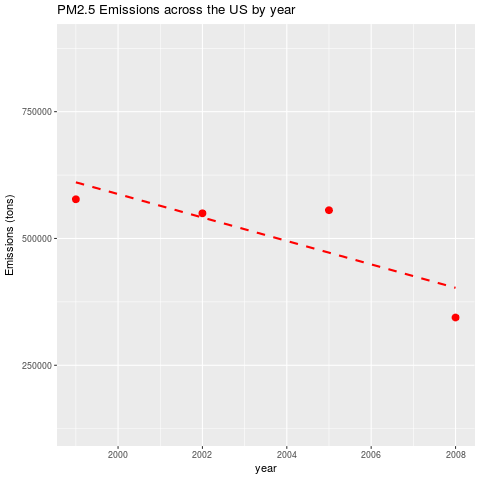
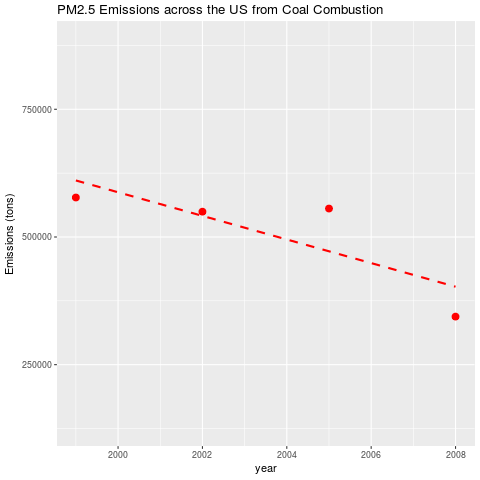
readme stuff, tweaked plot4

diff --git a/README.md b/README.md
@@ -4,15 +4,17 @@ week four project for exploratory data analysis course on coursera.org
 
 ## Question 1 : Have total emissions from PM2.5 decreased in the United States from 1999 to 2008? 
 
-some discussion
+PM2.5 emissions *have* decreased. Total Emissions in 2008 are approximately half those of 1999, and the data shows a clear downward trend.
 
 ![plot for question 1](./plot1.png)
+
+
 [plot1.R](./plot1.R)
 
 
 ## Question 2 : Have total emissions from PM2.5 decreased in the Baltimore City, Maryland (fips == "24510") from 1999 to 2008? 
-some discussion
 
+PM2.5 levels in Baltimore have decreased since 1999. Levels have generally decreased since 1999 (aside from a spike on 2005), and the 2008 level is significantly lower than the 1999 value.
 ![plot for question 2](./plot2.png)
 
 
@@ -20,7 +22,8 @@ some discussion
 
 ## Question 3 : Of the four types of sources indicated by the type (point, nonpoint, onroad, nonroad) variable, which of these four sources have seen decreases in emissions from 1999–2008 for Baltimore City? Which have seen increases in emissions from 1999–2008?
 
-some discussion
+Emissions from non-point, non-road, and on-road sources have decreased. Emissions from point sources have increased since 1999. 
+
 
 ![plot for question 3](./plot3.png)
 
@@ -29,16 +32,17 @@ some discussion
 
 ## Question 4 : Across the United States, how have emissions from coal combustion-related sources changed from 1999–2008?
 
-some discussion
+Emissions from coal-related sources (those in which the SCC code contains "coal" or "lingnite" at level three or four) have decreased since 1999.
 
 ![plot for question 4](./plot4.png)
 
 
 [plot4.R](./plot4.R)
 
-## Question 5 : Have total emissions from PM2.5 decreased in the United States from 1999 to 2008? 
+## Question 5 : How have emissions from motor vehicle sources changed from 1999–2008 in Baltimore City?
 
-some discussion
+
+PM2.5 emissions in Baltimore from vehiclular sources have decreased from 1999 to 2008.
 
 ![plot for question 5](./plot5.png)
 
@@ -47,7 +51,7 @@ some discussion
 
 ## Question 6 : Compare emissions from motor vehicle sources in Baltimore City with emissions from motor vehicle sources in Los Angeles County, California (fips == "06037"). Which city has seen greater changes over time in motor vehicle emissions?
 
-some discussion
+The plot below shows the relative change in PM2.5 emissions from vehicles in Baltimore and Los Angeles, compared to the 1999 emission levels. Emissions in Los Angeles have been increasing since 1999, whereas in 2008 emissions in Baltimore had decreased to about 25% of their 1999 levels.
 
 ![plot for question 6](./plot6.png)
 
